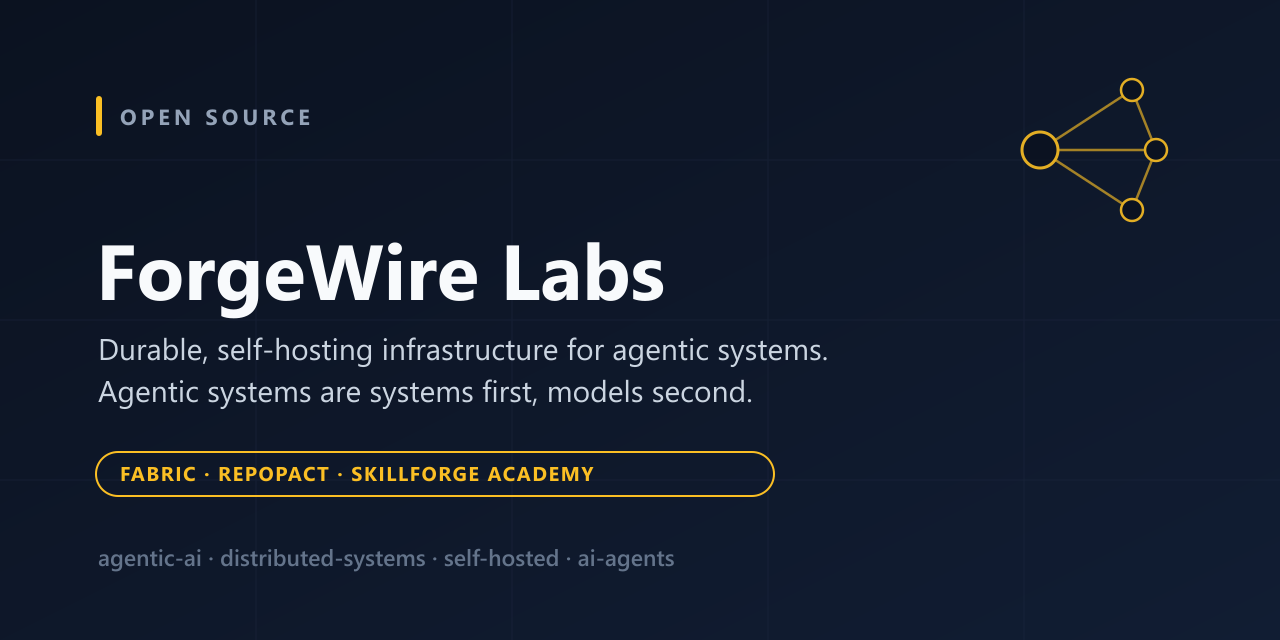
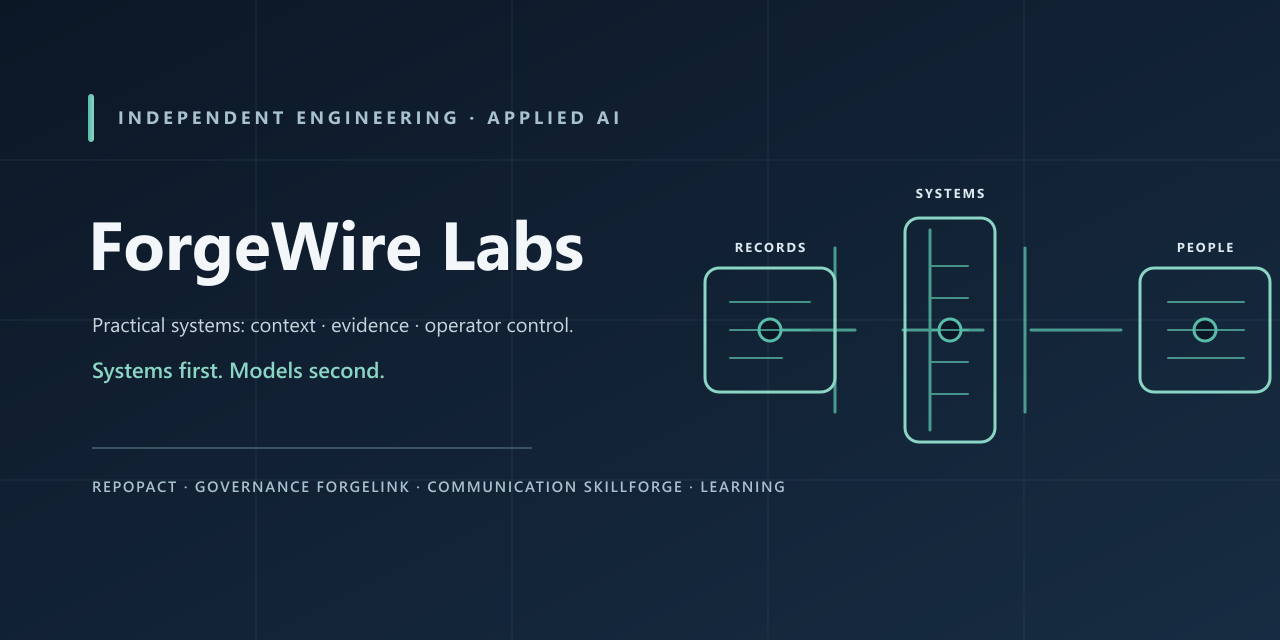
docs: refine ForgeWire Labs public portfolio

diff --git a/README.md b/README.md
@@ -1,26 +1,20 @@
-![ForgeWire Labs: Independent engineering and applied AI](assets/hero.png)
+![ForgeWire Labs — independent engineering and applied AI, focused on systems that preserve context, evidence, and operator control.](assets/forgewire-labs-hero.png)
 
-<p align="center"><strong>FORGEWIRE · COMING SOON</strong><br>Private development · No public download or release date announced</p>
+# ForgeWire Labs
 
-**ForgeWire is the main application under development at ForgeWire Labs.** It brings personas, model providers, tools, skills, projects, and tasks into a workspace the operator controls. See the [ForgeWire overview](https://github.com/ForgeWireLabs/ForgeWire-Overview) for a screen capture, architecture diagrams, instructions for private workspaces, and release status.
+Independent engineering and applied AI. I build practical software for governed work, planning, communication, and structured learning. Each project has a distinct purpose and its own stage of availability.
 
-| Explore | What you will find |
-| --- | --- |
-| [ForgeWire overview](https://github.com/ForgeWireLabs/ForgeWire-Overview) | Current public presentation, a genuine development-build Projects capture, five architecture diagrams, and Coming Soon status. |
-| [RepoPact Core](https://github.com/ForgeWireLabs/repopact-core) | Released repository-native governance CLI and canonical Rust engine, with ongoing development and research. |
-| [RepoPact Workbench](https://github.com/ForgeWireLabs/repopact-workbench) | Separate Tauri desktop/mobile application in development. |
-| [Anvil](https://github.com/ForgeWireLabs/anvil) | Public developer preview of a local-first planning ledger. |
-| [SkillForge Academy](https://github.com/ForgeWireLabs/skillforge-academy) | Published Windows learning app; reusable course-platform features are in beta development. |
-| [ForgeLink](https://github.com/JeremyShows/ForgeLink) | Locally owned communications and coordination for people, agents, and applications. |
-| ForgeWire Fabric | Private alpha execution control plane; no public deployment path. |
+**Available to explore now:** [RepoPact Core](https://github.com/ForgeWireLabs/repopact-core) is a released CLI; [SkillForge Academy](https://github.com/ForgeWireLabs/skillforge-academy) has a published Windows app; [ForgeLink](https://github.com/JeremyShows/ForgeLink) and [Anvil](https://github.com/ForgeWireLabs/anvil) are public early-stage projects. **RepoPact Workbench** is a source-build preview. The ForgeWire application and Fabric remain private development, with no public download or release date.
+
+[Start with RepoPact Core](https://github.com/ForgeWireLabs/repopact-core) · [Explore Workbench](https://github.com/ForgeWireLabs/repopact-workbench) · [Browse all projects](#what-forgewire-labs-builds)
 
 ---
 
-# Jeremy Shows
+## Jeremy Shows
 
 **Founder & Principal Engineer, ForgeWire Labs**
 
-I build software for people working with AI agents: repository tools that track decisions and evidence, remote execution with explicit permissions, and private channels for approvals. The work has to hold up when a model makes a mistake, a machine fails, or the operator needs to step in.
+I build software for people working with AI agents: repository tools that track decisions and evidence, practical applications, and clear paths for human review. The work has to hold up when a model makes a mistake, a machine fails, or the operator needs to step in.
 
 I work on the research, architecture, code, debugging, tests, and documentation with substantial help from AI systems. I choose the tools and design, check their output, and decide what gets accepted. The projects also draw on open research, open-source software, commercial tools, and established engineering practice.
 
@@ -32,45 +26,24 @@ I was a mechanic, race-car builder, fabricator, IT professional, and small-busin
 
 ## What ForgeWire Labs Builds
 
-ForgeWire Labs builds software for governed engineering, planning, distributed execution, communication, and structured learning.
+ForgeWire Labs builds software for governed work, planning, communication, and structured learning.
 
 The projects cover different parts of that work. Some have public repositories; others are still private:
 
-```text
-RepoPact Core      → repository-native governance   [public / Apache-2.0]
-RepoPact Workbench → governance application         [public / in development]
-Anvil             → planning ledger                [public / developer preview]
-Fabric            → remote execution               [private / proprietary]
-ForgeLink         → communication and coordination [public project]
-SkillForge        → structured learning            [public / Apache-2.0]
-ForgeWire         → application and runtime         [private development]
-```
+| Project | What it is | Availability |
+| --- | --- | --- |
+| [RepoPact Core](https://github.com/ForgeWireLabs/repopact-core) | Repository-native governance CLI and canonical engine | Released CLI; ongoing development |
+| [RepoPact Workbench](https://github.com/ForgeWireLabs/repopact-workbench) | Native interface for exploring RepoPact records and reviewing supported changes | Source-build preview |
+| [Anvil](https://github.com/ForgeWireLabs/anvil) | Local-first planning ledger | Public developer preview |
+| [SkillForge Academy](https://github.com/ForgeWireLabs/skillforge-academy) | Structured learning application | Published Windows app; course-platform work in beta |
+| [ForgeLink](https://github.com/JeremyShows/ForgeLink) | Locally owned communication and coordination | Public early development |
+| ForgeWire and Fabric | Private projects in development | No public download or release date |
 
 The common concern is practical: people need to know what ran, what it changed, and what to do when it fails.
 
 ---
 
-## Agentic Infrastructure
-
-### 🧵 ForgeWire Fabric · **Private Development: Alpha**
-
-A self-hosted control plane for **authenticated remote task execution**.
-
-Fabric moves work across machines while keeping authority, policy, provenance, and execution history explicit. It provides signed dispatch, scoped capability routing, policy-gated runners, structured task events, live streams, audit/replay, and a private control plane for running agentic and command work on hardware you control.
-
-```text
-authorized intent → signed dispatch → scoped runner → streamed execution → audit trail
-```
-
-Fabric is for operators who want remote agents, local compute, GPU boxes, build hosts, lab machines, and private infrastructure without surrendering execution control to a hosted agent platform.
-
-**Licensing status:** current private ForgeWire and Fabric development is proprietary unless a specific distribution is explicitly licensed otherwise. Public ForgeWire Labs projects retain their own licenses. Versions or copies previously distributed under Apache License 2.0 remain licensed under the terms that accompanied those specific versions or copies. The move to private development does not revoke rights already granted for historical Apache-2.0 distributions.
-
-`agentic-ai` · `remote-execution` · `mcp` · `distributed-systems` · `rust`
-
-Current CLI and desktop screenshots will be added after capture from the current Fabric build against isolated demo data.
-
----
+## Project details
 
 ### 📜 [RepoPact Core](https://github.com/ForgeWireLabs/repopact-core) · **Released CLI · Ongoing Development**
 
@@ -110,7 +83,7 @@ A **local-first planning ledger for human and agentic work**.
 
 Anvil owns projects, issues, boards, sprints, workflows, and typed relations to external work records. Its built-in store uses local JSON with no required network service or external issue-tracker account. The current developer preview has a single-writer store; its API and schema may change.
 
-Anvil owns planning state. RepoPact owns repository governance, Fabric owns remote execution, and ForgeLink owns communication and human decisions. References between them do not transfer authority or duplicate the authoritative records.
+Anvil owns planning state. RepoPact owns repository governance, and ForgeLink owns communication and human decisions. References between public projects do not transfer authority or duplicate the authoritative records.
 
 Anvil is published as an Apache-2.0 mirror of private monorepo development. Issues are welcome; pull requests are not accepted in the mirror.
 
@@ -156,53 +129,11 @@ SkillForge is built with Tauri, Rust, React, and TypeScript and is open source u
 
 ---
 
-## The Larger System: [ForgeWire](https://github.com/ForgeWireLabs/ForgeWire-Overview)
+## ForgeWire in development
 
-The projects above are extracted from, adjacent to, or designed for a larger **privately developed** system.
+ForgeWire is a private application under development. It has no public build, supported install path, stable API, or announced release date. The public [ForgeWire overview](https://github.com/ForgeWireLabs/ForgeWire-Overview) presents its current high-level direction and availability boundary.
 
-ForgeWire is an application and runtime being built to coordinate models, personas, tools, skills, context, tasks, and compute around real work. Selected private workflows already use application services and graph execution. Broader run-lifecycle convergence and distributed execution integration remain active work.
-
-Its engineering thesis:
-
-> **Agentic systems are systems first and models second.**
-
-A capable model can still be part of an unreliable system.
-
-Models can be wrong, slow, expensive, unavailable, deprecated, or replaced. Providers change. Dependencies fail. Hardware becomes constrained. Requirements evolve. People still need the system to preserve context, expose what happened, recover when possible, and respect authority boundaries.
-
-ForgeWire's engineering direction focuses on the infrastructure around models:
-
-- graceful degradation
-- explicit ownership boundaries
-- provider freedom
-- behavioral parity
-- durable audit trails
-- recoverable execution
-- bounded agent authority
-- replaceable components
-- inspectable failure states
-- human approval paths
-- repo-native memory and governance
-
-The [public overview](https://github.com/ForgeWireLabs/ForgeWire-Overview) shows the current interface evidence, architecture and limits. ForgeWire has no public build, supported install path, stable API, or announced release date.
-
----
-
-## How the Pieces Relate
-
-| Project | Boundary | Relationship to ForgeWire |
-| --- | --- | --- |
-| **RepoPact Core** | Repository-native work governance for humans and coding agents | A separate public project whose governance ideas inform the engineering workflow. It is not a required ForgeWire installation step. |
-| **ForgeWire** | Operator-owned application and runtime | Coordinates configured personas, providers, tools, state, and selected workflows in the private application. |
-| **ForgeWire Fabric** | Authenticated remote execution and operator control | A separate private alpha control plane. Selected, configuration-dependent application paths integrate with it; broad composition and public deployment remain open. |
-| **ForgeLink** | Communication, coordination, and human authority | An independently useful public product for people, agents, and applications. The profile does not imply a shipped end-to-end ForgeWire integration. |
-| **RepoPact Workbench** | Desktop/mobile governance application | A separate application consuming Core; platform acceptance is independent of the Core release. |
-| **Anvil** | Local planning ledger | Owns planning records and typed references; it does not own execution or repository governance. |
-| **SkillForge Academy** | Structured learning and course progression | An independent public learning product, rather than a required part of the ForgeWire runtime. |
-
-Each project has its own scope and development pace. The [ForgeWire architecture diagrams](https://github.com/ForgeWireLabs/ForgeWire-Overview#how-the-system-fits-together) distinguish existing paths, optional configuration, private implementation, and proposed work.
-
-Permissions belong in software controls. Work history belongs in durable records. Requests for human decisions need a place where those decisions can be reviewed later.
+The public projects listed here stand on their own. RepoPact Core provides repository-native governance; Workbench is its separate source-build preview interface. ForgeLink, Anvil, and SkillForge Academy have their own repositories, scopes, and maturity levels. No project requires installing the private ForgeWire application.
 
 ---
 
@@ -212,7 +143,7 @@ I start by defining who owns an action, what data it can use, and how a failure 
 
 When a proposed fix keeps failing, I revisit the design instead of adding another patch. I keep decisions and evidence in the repository so a later session can pick up the work. Experimental ideas go through isolated trials and comparison with a baseline before they enter the application.
 
-I prefer local storage for private state and operator decisions. Remote execution has to carry explicit scope and leave a record of what ran. These choices are visible in RepoPact, Fabric, ForgeLink, and ForgeWire, though each project is at a different stage.
+I prefer local storage for private state and operator decisions. Software that acts on a person’s behalf should make its scope clear and leave a record of what happened. These choices are visible across the public projects, though each project is at a different stage.
 
 **Stack:** Rust · Python · TypeScript · React · Tauri · Electron · GTK · SQLite · rqlite · PostgreSQL · PowerShell · GitHub Actions
 
@@ -226,15 +157,7 @@ The current work descends from years of building, failure, and reconstruction:
 SCOUT → SCOUT-2 → ATLAS → PhrenForge → ForgeWire
 ```
 
-Across those generations:
-
-- a chatbot became a multi-persona assistant
-- prompts became tools, skills, permissions, and services
-- direct execution gained policy and capability boundaries
-- scattered context became repo-native memory and governance
-- local workflows expanded into authenticated distributed execution
-- human communication became a private attention and approval boundary
-- model-centered development became systems-first engineering
+Across those generations, experiments in assistants and practical software led toward durable project context, clear authority boundaries, and systems-first engineering.
 
 Historical projects:
 
@@ -243,21 +166,6 @@ Historical projects:
 
 ---
 
-<!-- TODO (headshot: on you): once you add assets/headshot.jpg, uncomment the block below.
-<img src="assets/headshot.jpg" align="right" width="180" alt="Jeremy Shows" />
--->
 
-<!-- TODO (writing): drafts live in writing/. Once finalized, uncomment to surface them.
-## Writing
-
-- **Agentic systems are systems first and models second**: reliability lives in the assembly, not the component.
-- **Why coding agents need repository-native governance**: binding invariants and durable state in the repo.
-- **Remote agents without surrendering execution control**: signed dispatch, scope-bound tokens, audited runs.
-- **Human attention is infrastructure**: why agent systems need private communication boundaries.
-- **Building serious AI infrastructure on constrained hardware**: constraints as a design input.
-- **What failed between SCOUT and ForgeWire**: the lineage read as corrected structural failures.
-
----
--->
 
 Reach me through the repositories above. Use the relevant project's security reporting process for suspected vulnerabilities.

diff --git a/social/README.md b/social/README.md
@@ -1,19 +1,18 @@
 # Social preview images
 
-Consistent 1280×640 social-preview cards for the flagship repositories. These set
-the image people see when a repo link is shared on X, LinkedIn, Slack, Discord, etc.
+Consistent 1280×640 social-preview cards for the flagship repositories. These images are designed for link previews on GitHub and other services.
 
-GitHub has **no API** for social previews — each must be uploaded by hand:
+GitHub social previews are repository settings, separate from the image files committed here. Verify them in each repository under **Settings → General → Social preview**. Upload the 1280 × 640 PNG there when it is not already active:
 
 > Repo → **Settings** → **General** → **Social preview** → **Edit** → upload the `.png`.
 
 | Repo | File |
 |---|---|
-| [repopact-core](https://github.com/ForgeWireLabs/repopact-core/settings) | `repopact.png` |
+| [repopact-core](https://github.com/ForgeWireLabs/repopact-core/settings) | `repopact-core.png` (source SVG: `repopact-core.svg`; authoritative product asset lives in Core) |
+| [repopact-workbench](https://github.com/ForgeWireLabs/repopact-workbench/settings) | `repopact-workbench.png` (source SVG: `repopact-workbench.svg`; authoritative product asset lives in Workbench) |
 | [skillforge-academy](https://github.com/JeremyShows/skillforge-academy/settings) | `skillforge-academy.png` |
 | [ForgeWire-Overview](https://github.com/ForgeWireLabs/ForgeWire-Overview/settings) | `ForgeWire-Overview.png` |
 | [ForgeWireLabs (org profile)](https://github.com/ForgeWireLabs/ForgeWireLabs/settings) | `ForgeWireLabs.png` |
+| ForgeWire Labs portfolio | `asset-inventory.json` lists the profile hero and all social-card SVG/PNG pairs |
 
-The `.svg` source files are kept alongside each `.png`. To re-render after an edit:
-
-Regenerate an image from its matching SVG source before uploading it.
+The `.svg` source files are kept alongside each generated `.png`. Core and Workbench also maintain product-specific cards in their own repositories. Regenerate from the matching SVG and verify the dimensions and hash listed in `asset-inventory.json` before upload.
